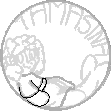
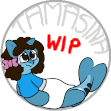
bleh

diff --git a/blog/index.html b/blog/index.html
@@ -55,12 +55,20 @@
           <tbody>
             <tr>
               <td class="blog">
-                <h2>frick pt 2</h2>
-                <h4>Posted on 31/08/2026</h4>
+                <h2>update on youtube things</h2>
+                <h4>Posted on 15/09/2026</h4>
                 <hr>
-                <p>okay so disregard my thoguhts with thinking i cant make a logo i did end up coming up with something.. so wowie!!! its me in a specific circular object. woaw.</p>
+                <p>if youve been following my youtube for a while you may have noticed there has been no new videos for a while, compared to my usual 2-3 videos per 3 months. this is becuase... i'm working on a big video project.</p>
                 <br/>
-                <p>i still dont like how this redesign looks though so. iuno. x3</p>
+                <p>i won't say much about it here, but it will have way more effort put into it compared to anything else i've put on my channel before. this means however i won't post random recordings of whatever on my channel anymore... unless i end up making a new channel just for this video, and future videos like it.</p>
+                <br/>
+                <p>its likely though that i may end up making properly edited gameplay/highlight videos of me and my partner playing stuff to pass the time though... and also make people that follow my youtube get used to me being a pony now.</p>
+                <br/>
+                <p>tl;dr: if you watch my youtube to watch the random fricking videos i put out for no reason, expect me to never post those things again (unless i make a seperate channel for that).</p>
+                <br/>
+                <hr>
+                <br/>
+                <p>also with this blog post the logo has been worked on a bit more. ive been putting it off so thats fun but at least theres colour now. yaaaaaaaaaaayyyyyyyyyyyyy</p>
               </td>
             </tr>
           </tbody>
@@ -69,7 +77,17 @@
         <img src="../img/sections/pbp_section.png" title="Previous Blog Posts" alt="Previous Blog Posts">
         <table class="blogs" cellspacing="0">
           <tbody>
-          <tr>
+            <tr>
+              <td class="blog">
+                <h2>frick pt 2</h2>
+                <h4>Posted on 31/08/2026</h4>
+                <hr>
+                <p>okay so disregard my thoguhts with thinking i cant make a logo i did end up coming up with something.. so wowie!!! its me in a specific circular object. woaw.</p>
+                <br/>
+                <p>i still dont like how this redesign looks though so. iuno. x3</p>
+              </td>
+            </tr>
+            <tr>
               <td class="blog">
                 <h2>frick</h2>
                 <h4>Posted on 31/08/2026</h4>

diff --git a/collection/index.html b/collection/index.html
@@ -99,11 +99,6 @@
               <td>Boxed, New</td>
             </tr>
             <tr>
-              <td>PC</td>
-              <td>Sonic PC Collection</td>
-              <td>Boxed, Used</td>
-            </tr>
-            <tr>
               <td></td>
               <td></td>
               <td></td>
